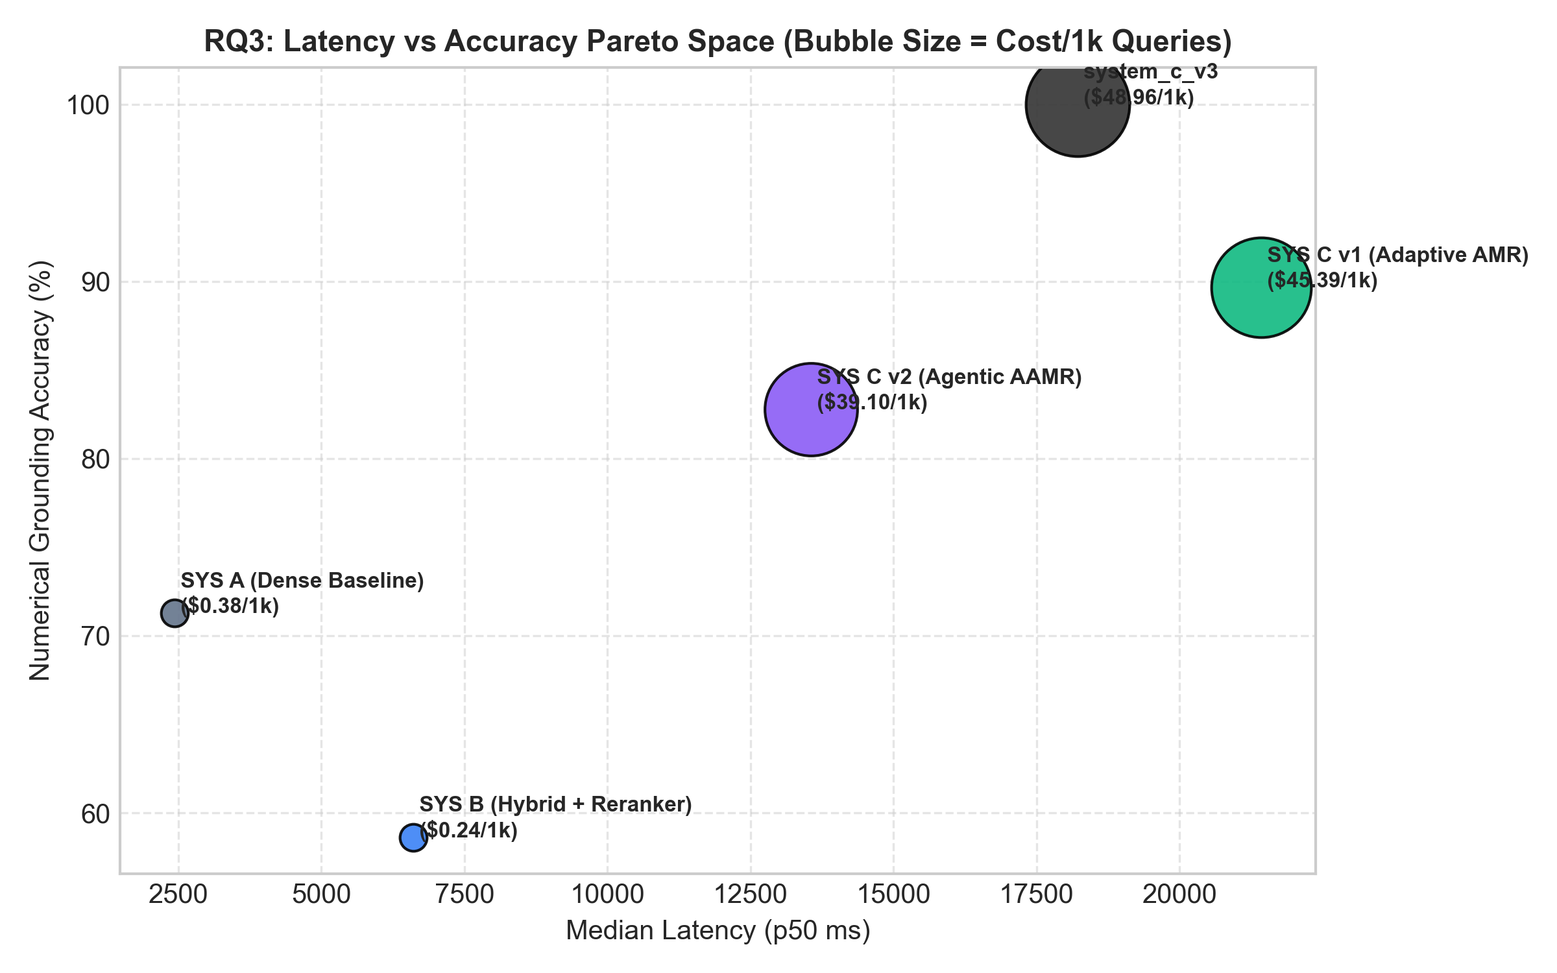
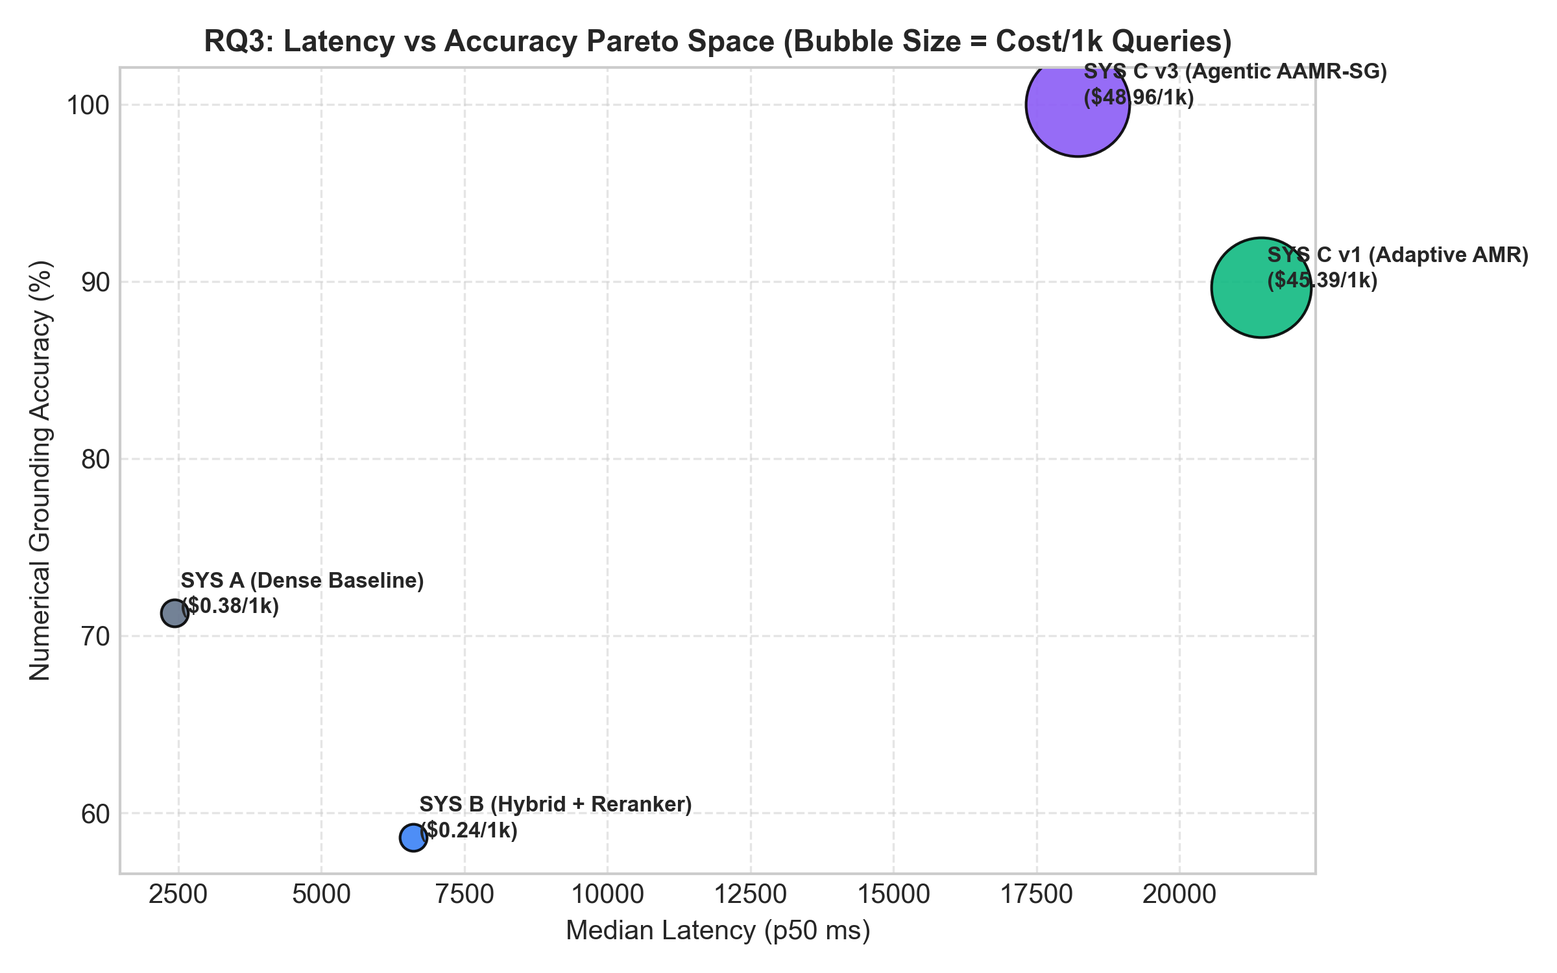
docs: streamline 4 evaluated systems to A, B, C_v1, and C_v3 across README, docs, and benchmarks

Changed region(s): [[0.6562, 0.0613, 0.9062, 0.184], [0.4688, 0.368, 0.6875, 0.4907]]

diff --git a/scripts/rq3/evaluate_rq3.py b/scripts/rq3/evaluate_rq3.py
@@ -75,10 +75,10 @@ def compute_wilcoxon_tests(df: pd.DataFrame) -> Dict[str, Any]:
         return {"note": "scipy not available for Wilcoxon tests"}
 
     comparisons = [
-        ("system_c_v2", "system_c_v1", "hops", "H3c Hop Reduction (AAMR vs AMR)"),
-        ("system_c_v2", "system_c_v1", "latency_ms", "AAMR Latency vs AMR"),
+        ("system_c_v3", "system_c_v1", "hops", "H3c Hop Reduction (AAMR-SG vs AMR)"),
+        ("system_c_v3", "system_c_v1", "latency_ms", "AAMR-SG Latency vs AMR"),
         ("system_c_v1", "system_b", "numeric_correct", "H3b Accuracy vs System B Hybrid"),
-        ("system_c_v2", "system_b", "numeric_correct", "AAMR Accuracy vs System B Hybrid"),
+        ("system_c_v3", "system_b", "numeric_correct", "AAMR-SG Accuracy vs System B Hybrid"),
         ("system_b", "system_a", "latency_ms", "System B Rerank Latency vs System A"),
         ("system_b", "system_a", "numeric_correct", "System B Accuracy vs System A"),
     ]
@@ -113,7 +113,8 @@ def compute_wilcoxon_tests(df: pd.DataFrame) -> Dict[str, Any]:
 def compute_system_metrics(df: pd.DataFrame) -> Dict[str, Any]:
     """Calculate comprehensive economic, latency, and quality metrics per system."""
     summary = {}
-    systems = df["system"].unique()
+    target_order = ["system_a", "system_b", "system_c_v1", "system_c_v3", "system_c_fixed_3hop"]
+    systems = [s for s in target_order if s in df["system"].unique()]
 
     for s in systems:
         sub = df[df["system"] == s].copy()
@@ -208,12 +209,12 @@ def simulate_routing_cascade(df: pd.DataFrame) -> Dict[str, Any]:
     Simulates a production two-tier cascade:
     1. Query routed to System B (hybrid RAG).
     2. If System B produces correct numerical grounding / sufficiency, accept System B (low cost, fast).
-    3. If System B is insufficient, cascade to System C v2 (Agentic Multi-Hop AAMR).
+    3. If System B is insufficient, cascade to System C v3 (Agentic Multi-Hop AAMR-SG).
     """
     b_df = df[df["system"] == "system_b"].set_index("query_id")
-    c2_df = df[df["system"] == "system_c_v2"].set_index("query_id")
+    c3_df = df[df["system"] == "system_c_v3"].set_index("query_id")
 
-    common_ids = list(set(b_df.index).intersection(set(c2_df.index)))
+    common_ids = list(set(b_df.index).intersection(set(c3_df.index)))
     if not common_ids:
         return {"n_queries": 0, "status": "insufficient_paired_data"}
 
@@ -224,7 +225,7 @@ def simulate_routing_cascade(df: pd.DataFrame) -> Dict[str, Any]:
 
     for qid in common_ids:
         b_row = b_df.loc[qid]
-        c2_row = c2_df.loc[qid]
+        c3_row = c3_df.loc[qid]
 
         b_correct = bool(b_row.get("numeric_correct", False))
 
@@ -236,9 +237,9 @@ def simulate_routing_cascade(df: pd.DataFrame) -> Dict[str, Any]:
         else:
             # Escalated to tier 2
             escalated_count += 1
-            total_cost += float(b_row.get("estimated_cost_usd", 0.0)) + float(c2_row.get("estimated_cost_usd", 0.0))
-            total_latency += float(b_row.get("latency_ms", 0.0)) + float(c2_row.get("latency_ms", 0.0))
-            if bool(c2_row.get("numeric_correct", False)):
+            total_cost += float(b_row.get("estimated_cost_usd", 0.0)) + float(c3_row.get("estimated_cost_usd", 0.0))
+            total_latency += float(b_row.get("latency_ms", 0.0)) + float(c3_row.get("latency_ms", 0.0))
+            if bool(c3_row.get("numeric_correct", False)):
                 correct_count += 1
 
     n = len(common_ids)
@@ -274,13 +275,13 @@ def plot_pareto_and_figures(summary: Dict[str, Any], df: pd.DataFrame, out_dir: 
         "system_a": "#64748b",
         "system_b": "#3b82f6",
         "system_c_v1": "#10b981",
-        "system_c_v2": "#8b5cf6",
+        "system_c_v3": "#8b5cf6",
     }
     labels = {
         "system_a": "SYS A (Dense Baseline)",
         "system_b": "SYS B (Hybrid + Reranker)",
         "system_c_v1": "SYS C v1 (Adaptive AMR)",
-        "system_c_v2": "SYS C v2 (Agentic AAMR)",
+        "system_c_v3": "SYS C v3 (Agentic AAMR-SG)",
     }
 
     xs, ys, names = [], [], []
@@ -304,7 +305,7 @@ def plot_pareto_and_figures(summary: Dict[str, Any], df: pd.DataFrame, out_dir: 
 
     # 2. Fig 2: Stage Latency Breakdown
     fig, ax = plt.subplots(figsize=(9, 4.5), dpi=300)
-    sys_order = [s for s in ["system_a", "system_b", "system_c_v1", "system_c_v2", "system_c_fixed_3hop"] if s in summary]
+    sys_order = [s for s in ["system_a", "system_b", "system_c_v1", "system_c_v3", "system_c_fixed_3hop"] if s in summary]
     ret_vals = [summary[s]["latency"]["stages_mean_ms"]["retrieval"] for s in sys_order]
     rer_vals = [summary[s]["latency"]["stages_mean_ms"]["rerank"] for s in sys_order]
     cri_vals = [summary[s]["latency"]["stages_mean_ms"]["agent_critic"] for s in sys_order]

diff --git a/scripts/demo_milestone1_system_c.py b/scripts/demo_milestone1_system_c.py
@@ -82,14 +82,14 @@ DEMO_QUERIES = [
         "description": "Baseline multi-hop RAG relying solely on unstructured text and table chunks.",
     },
     {
-        "id": "Q3_v2",
-        "name": "Quantitative Financial Comparison (v2_aamr - Agentic XBRL Tabular Tool)",
+        "id": "Q3_v3",
+        "name": "Quantitative Financial Comparison (v3_aamr_sg - Agentic XBRL Tabular Tool)",
         "query": "Compare NVIDIA's total revenue, operating income, and net income between FY2025 and FY2026, and calculate the year-over-year revenue growth rate.",
         "ticker": "NVDA",
         "years": [2025, 2026],
-        "mode": "v2_aamr",
+        "mode": "v3_aamr_sg",
         "max_hops": 3,
-        "description": "Agentic System C v2: routes to tabular_tool (financials.csv) for deterministic XBRL grounding [F-NVDA-2026].",
+        "description": "Agentic System C v3: routes to tabular_tool (financials.csv) for deterministic XBRL grounding [F-NVDA-2026].",
     },
 ]
 
@@ -97,7 +97,7 @@ DEMO_QUERIES = [
 def print_banner(provider: str, model: str) -> None:
     print(f"\n{BOLD}{CYAN}╔══════════════════════════════════════════════════════════════════════════════════════════════╗{RESET}")
     print(f"{BOLD}{CYAN}║    CS614 MILESTONE 1 DEMO: SYSTEM C (ADAPTIVE MULTI-HOP RAG FOR SEC 10-K DISCLOSURES)         ║{RESET}")
-    print(f"{BOLD}{CYAN}║    Architectural Showcase: AMR v1 (State Graph) & AAMR v2 (Agentic Tabular Tool)             ║{RESET}")
+    print(f"{BOLD}{CYAN}║    Architectural Showcase: AMR v1 (State Graph) & AAMR-SG v3 (Agentic Tabular Tool)           ║{RESET}")
     print(f"{BOLD}{CYAN}╚══════════════════════════════════════════════════════════════════════════════════════════════╝{RESET}")
     print(f"  {BOLD}LLM Provider:{RESET} {GREEN}{provider.upper()}{RESET}  |  {BOLD}Model:{RESET} {GREEN}{model}{RESET}  |  {BOLD}Date:{RESET} 24-25 Oct 2026\n")
 
@@ -119,9 +119,9 @@ def print_query_trace(idx: int, item: Dict[str, Any], state: AdaptiveRAGState) -
     print(f"     • Needs Tabular Tool:  {state.get('needs_tabular_tool')}")
     print(f"     • Planned Sub-Queries: {state.get('sub_queries')}")
 
-    # Step 2: Tabular tool (if v2)
+    # Step 2: Tabular tool (if v3)
     if state.get("tabular_evidence"):
-        print(f"\n  {BOLD}{GREEN}2. Autonomous Tabular Tool Execution (v2_aamr):{RESET}")
+        print(f"\n  {BOLD}{GREEN}2. Autonomous Tabular Tool Execution (v3_aamr_sg):{RESET}")
         for tab_block in state.get("tabular_evidence", []):
             first_line = tab_block.split("\n")[0]
             print(f"     • Injected XBRL Block: {CYAN}{first_line}{RESET}")

diff --git a/tests/rq2/test_rq2_score_report.py b/tests/rq2/test_rq2_score_report.py
@@ -276,10 +276,10 @@ def test_usage_written_to_score_rows(tmp_path):
 
 def test_report_aggregates_per_category_with_ci_and_generation_failures(tmp_path):
     records = [_record("Q1"), _record("Q2"), _record("Q3", category="single_hop_factual"),
-               _record("Q1", system="system_c_v2")]
+               _record("Q1", system="system_c_v3")]
     _write_records(tmp_path, records)
-    append_jsonl(tmp_path / GEN_ERRORS_FILE, {"system": "system_c_v2", "question_id": "Q2", "error": "boom"})
-    append_jsonl(tmp_path / GEN_ERRORS_FILE, {"system": "system_c_v2", "question_id": "Q1", "error": "later ok"})
+    append_jsonl(tmp_path / GEN_ERRORS_FILE, {"system": "system_c_v3", "question_id": "Q2", "error": "boom"})
+    append_jsonl(tmp_path / GEN_ERRORS_FILE, {"system": "system_c_v3", "question_id": "Q1", "error": "later ok"})
     values = {"Q1": 0.2, "Q2": 0.4, "Q3": 0.9}
     for r in records:
         append_jsonl(tmp_path / SCORES_FILE, {
@@ -296,9 +296,9 @@ def test_report_aggregates_per_category_with_ci_and_generation_failures(tmp_path
     assert agg[("system_c_v1", "single_hop_factual", "faithfulness")]["n"] == 1
 
     assert R.generation_failures(read_jsonl(tmp_path / RECORDS_FILE), read_jsonl(tmp_path / GEN_ERRORS_FILE)) == {
-        "system_c_v1": 0, "system_c_v2": 1}
+        "system_c_v1": 0, "system_c_v3": 1}
     text = R.build_report(tmp_path)
-    assert "| system_c_v2 | 1 | 1 |" in text
+    assert "| system_c_v3 | 1 | 1 |" in text
     assert "Context Precision is order-sensitive" in text
     assert "(n=3)" in text
     assert (tmp_path / "aggregate.csv").exists()

diff --git a/scripts/run_rq3_ablation.py b/scripts/run_rq3_ablation.py
@@ -6,7 +6,7 @@ Ablation Conditions Benchmarked:
 1. `fixed_1hop`: Fixed 1-Hop Baseline (max_hops=1, single-pass retrieval)
 2. `fixed_3hop`: Fixed 3-Hop Exhaustive (max_hops=3, force_max_hops=True, no early-stopping)
 3. `adaptive_v1`: Adaptive Multi-Hop AMR (max_hops=3, dynamic reflection & early-stopping)
-4. `agentic_v2`:  Agentic Adaptive AMR AAMR (max_hops=3, tabular_tool + dynamic reflection)
+4. `agentic_v3`:  Agentic Adaptive AMR-SG (max_hops=3, schema-aware tabular tool + dynamic reflection)
 
 Metrics Computed:
 - Latency (ms): Mean, Std, Min, Max, p50, p90, p99
@@ -173,12 +173,12 @@ ABLATION_CONDITIONS = [
         "description": "System C v1 with Evidence Sufficiency Critic dynamic early-stopping.",
     },
     {
-        "key": "agentic_v2",
-        "label": "Agentic Adaptive (AAMR v2)",
-        "mode": "v2_aamr",
+        "key": "agentic_v3",
+        "label": "Agentic Adaptive (AAMR-SG v3)",
+        "mode": "v3_aamr_sg",
         "max_hops": 3,
         "force_max_hops": False,
-        "description": "System C v2 with autonomous tabular XBRL tool + dynamic early-stopping.",
+        "description": "System C v3 with autonomous tabular XBRL tool, schema-aware sufficiency & table continuity.",
     },
 ]
 

diff --git a/scripts/rq3/run_rq3_experiment.py b/scripts/rq3/run_rq3_experiment.py
@@ -6,7 +6,7 @@ Evaluates 5 systems head-to-head on the standardized benchmark pool:
 1. `system_a`: Vanilla Dense Baseline (rag5 contextual headers, 1 LLM call)
 2. `system_b`: Advanced Single-Pass Hybrid RAG (Okapi BM25 + dense + cross-encoder rerank, 1 LLM call)
 3. `system_c_v1`: Adaptive Multi-Hop RAG (AMR: dynamic 1-3 hops + Sufficiency Critic + Guardrail)
-4. `system_c_v2`: Agentic Adaptive Multi-Hop RAG (AAMR: XBRL tabular tool + dynamic 1-3 hops + Guardrail)
+4. `system_c_v3`: Agentic Adaptive Multi-Hop RAG (AAMR-SG: schema-aware sufficiency + dynamic 1-3 hops + Guardrail)
 5. `system_c_fixed_3hop`: Unconditioned 3-Hop Ablation Control (force_max_hops=True)
 
 Hardened Experimental Protocol:
@@ -38,7 +38,7 @@ DEFAULT_BENCHMARK_2015 = REPO_ROOT / "data" / "benchmark_qa_pool_2015.json"
 DEFAULT_RECORDS_FILE = REPO_ROOT / "reports" / "rq3" / "records.jsonl"
 DEFAULT_ERRORS_FILE = REPO_ROOT / "reports" / "rq3" / "errors.jsonl"
 
-ALL_SYSTEMS = ["system_a", "system_b", "system_c_v1", "system_c_v2"]
+ALL_SYSTEMS = ["system_a", "system_b", "system_c_v1", "system_c_v3"]
 
 
 def load_benchmark_records(path: Path, min_year: int = 2015) -> List[Dict[str, Any]]:

diff --git a/scripts/rq2/generate.py b/scripts/rq2/generate.py
@@ -5,7 +5,7 @@ Runs in the main `cs614` env and never imports ragas. Resumable: (system, questi
 `records.jsonl` are skipped; failures go to `gen_errors.jsonl` and are retried on the next run.
 
 Usage:
-    python scripts/rq2/generate.py --systems system_c_v1,system_c_v2 --run-id smoke --limit 3
+    python scripts/rq2/generate.py --systems system_c_v1,system_c_v3 --run-id smoke --limit 3
 """
 
 import argparse
@@ -115,7 +115,7 @@ def select_questions(questions: List[Dict[str, Any]], ids: Optional[List[str]], 
 
 def main() -> None:
     p = argparse.ArgumentParser(description="RQ2 Stage 1: generate answers per system and question.")
-    p.add_argument("--systems", default="system_a,system_b,system_c_v1,system_c_v2")
+    p.add_argument("--systems", default="system_a,system_b,system_c_v1,system_c_v3")
     p.add_argument("--run-id", required=True)
     p.add_argument("--eval-set", default=str(GOLDEN_PATH))
     p.add_argument("--ids", default=None, help="Comma-separated question ids.")

diff --git a/scripts/rq1/evaluate_rq1.py b/scripts/rq1/evaluate_rq1.py
@@ -2,7 +2,7 @@
 """
 Research Question 1 (RQ1) Evaluation Harness: Retrieval Completeness across Non-Adjacent Sections.
 
-Evaluates all 4 RAG architectures (system_a, system_b, system_c_v1, system_c_v2) on:
+Evaluates all 4 RAG architectures (system_a, system_b, system_c_v1, system_c_v3) on:
 1. Evidence Recall@k: Proportion of gold evidence facts retrieved in the candidate context.
 2. Multi-Hop Evidence Completeness: % of multi-hop queries where ALL gold evidence items were found.
 3. Cross-Section Discovery Rate: % of questions with disparate 10-K sections (e.g. Item 7 + Item 8)
@@ -34,7 +34,7 @@ DEFAULT_RECORDS = REPO_ROOT / "reports" / "rq3" / "records.jsonl"
 DEFAULT_OUT_CSV = REPO_ROOT / "reports" / "rq1" / "summary_metrics.csv"
 DEFAULT_OUT_JSON = REPO_ROOT / "reports" / "rq1" / "summary_metrics.json"
 
-SYSTEMS = ["system_a", "system_b", "system_c_v1", "system_c_v2"]
+SYSTEMS = ["system_a", "system_b", "system_c_v1", "system_c_v3"]
 
 
 def normalize_text(text: str) -> str:

diff --git a/tests/test_architecture_contracts.py b/tests/test_architecture_contracts.py
@@ -85,7 +85,7 @@ def test_anti_leakage_firewall_all_systems():
         "CANARY_SECRET_HEADING_999",
     ]
 
-    adapters = get_adapters(["system_a", "system_b", "system_c_v1", "system_c_v2"])
+    adapters = get_adapters(["system_a", "system_b", "system_c_v1", "system_c_v3"])
     for name, adapter in adapters.items():
         out = adapter.answer(canary_qa)
         # Inspect all retrieved contexts
@@ -115,7 +115,7 @@ def test_plug_and_play_adapter_schema_all_systems():
     records = json.loads(BENCHMARK_2015_PATH.read_text(encoding="utf-8"))
     sample_q = records[0]  # amanda-001 or amanda-002
 
-    systems = ["system_a", "system_b", "system_c_v1", "system_c_v2", "system_c_fixed_3hop"]
+    systems = ["system_a", "system_b", "system_c_v1", "system_c_v3", "system_c_fixed_3hop"]
     adapters = get_adapters(systems)
 
     for sys_name, adapter in adapters.items():

diff --git a/scripts/plot_rq3_pareto.py b/scripts/plot_rq3_pareto.py
@@ -38,13 +38,15 @@ COLORS = {
     "fixed_1hop": "#64748b",   # Slate Grey
     "fixed_3hop": "#ef4444",   # Coral Red
     "adaptive_v1": "#3b82f6",  # Royal Blue
-    "agentic_v2": "#10b981",   # Emerald Green
+    "agentic_v3": "#10b981",   # Emerald Green
+    "agentic_v2": "#10b981",   # Backwards compatibility
 }
 
 MARKERS = {
     "fixed_1hop": "o",
     "fixed_3hop": "s",
     "adaptive_v1": "^",
+    "agentic_v3": "*",
     "agentic_v2": "*",
 }
 

diff --git a/README.md b/README.md
@@ -1,7 +1,7 @@
 # CS614 GenAI Project: Adaptive Multi-Hop RAG for SEC 10-K Financial Disclosures
 
 **Course:** CS614 Generative AI with LLMs (SMU)  
-**System Comparison:** System A (Vanilla Dense) vs. System B (Hybrid Rerank) vs. System C v1 (Adaptive Multi-Hop) vs. System C v2 (Agentic Multi-Hop)  
+**System Comparison:** System A (Vanilla Dense) vs. System B (Hybrid Rerank) vs. System C v1 (Adaptive Multi-Hop) vs. System C v3 (Adaptive Agentic Multi-Hop with Schema-Aware Sufficiency & Guardrails)  
 
 ---
 
@@ -9,7 +9,7 @@
 
 * 📖 **[Team Engineering & Evaluation Guide](docs/guides/TEAM_RAG_EVALUATION_GUIDE.md)** — Step-by-step instructions for running RQ1, RQ2, and RQ3 evaluations across all 4 systems.
 * 🐳 **[Docker Quickstart Guide](DOCKER_QUICKSTART.md)** — One-line commands to run tests, demos, benchmarks, and Jupyter inside Docker.
-* 🏛 **[System C Architecture & Mermaid State Graph](ARCHITECTURE.md)** — Complete LangGraph specification (AMR v1 & AAMR v2).
+* 🏛 **[System C Architecture & Mermaid State Graph](ARCHITECTURE.md)** — Complete LangGraph specification (AMR v1 & AAMR-SG v3).
 * 🔎 **[System B Architecture & Setup Guide](docs/SYSTEM_B.md)** — BM25 + dense retrieval + weighted hybrid fusion + cross-encoder reranking.
 * 📈 **[System B Evaluation Report](reports/system_b/EVALUATION_REPORT.md)** — Benchmark summary and per-query results.
 * 🎤 **[Milestone 1 Demo Guide](reports/MILESTONE1_DEMO_SCRIPT.md)** — Presentation walkthrough and query execution traces.
@@ -67,7 +67,7 @@ Our research evaluates four distinct RAG architectures on complex SEC Form 10-K 
 | **`system_a`** (Vanilla Dense Baseline) | Top-10 Dense Vector Search | Structure-Preserving + Filing Headers (`rag5`) | 1-Hop | Single-pass generation; direct citation tags |
 | **`system_b`** (Advanced Hybrid Single-Pass) | Okapi BM25 + BGE-Small Dense + Cross-Encoder Reranker | Structure-Preserving (`rag3`) | 1-Hop | Min-Max weighted score fusion ($\alpha=0.50$) |
 | **`system_c_v1`** (Adaptive Multi-Hop AMR) | Iterative Multi-Hop Hybrid Retrieval | Structure-Preserving + Deduplication | Dynamic (1 to 3 hops) | Evidence Sufficiency Critic reflection loop + Numerical Guardrail |
-| **`system_c_v2`** (Agentic Multi-Hop AAMR) | Autonomous Tool Routing + Multi-Hop Hybrid | Structure-Preserving + Deduplication | Dynamic (1 to 3 hops) | Pre-routes to SEC XBRL financial statements (`financials.csv`) + Numerical Guardrail |
+| **`system_c_v3`** (Agentic Multi-Hop AAMR-SG) | Autonomous Schema-Aware Sufficiency + Multi-Hop Hybrid | Structure-Preserving + Table Stitching + Deduplication | Dynamic (1 to 3 hops) | Pre-routes to SEC XBRL financial statements (`financials.csv`) + Structural table continuity detector + Time-series consistency + Numerical Guardrail |
 
 <details>
 <summary><b>Note on Baseline Development Variants (RAG 1 to RAG 6)</b></summary>
@@ -100,8 +100,8 @@ python -m src.system_b --query "What was NVIDIA's total revenue?" --tickers NVDA
 # AMR (v1: Adaptive Multi-Hop)
 python -m src.system_c.graph --mode v1_amr --query "What was NVIDIA's revenue and gross margin in FY2026?"
 
-# AAMR (v2: Agentic Multi-Hop with XBRL Tabular Tool)
-python -m src.system_c.graph --mode v2_aamr --query "Compare NVIDIA and Apple total revenue in 2024."
+# AAMR-SG (v3: Agentic Multi-Hop with Schema-Aware Sufficiency & Table Continuity)
+python -m src.system_c.graph --mode v3_aamr_sg --query "Compare NVIDIA and Apple total revenue in 2024."
 ```
 
 ---

diff --git a/docs/guides/TEAM_RAG_EVALUATION_GUIDE.md b/docs/guides/TEAM_RAG_EVALUATION_GUIDE.md
@@ -1,6 +1,6 @@
 # Comparative Engineering & Evaluation Guide: 4 Financial RAG Systems
 
-**Scope:** Standardized evaluation protocol across System A, System B, System C v1, and System C v2.  
+**Scope:** Standardized evaluation protocol across System A, System B, System C v1, and System C v3.  
 **Branch:** `dev`  
 **Purpose:** Instructions for connecting to the 4 RAG systems and executing standardized evaluations for **RQ1 (Retrieval Completeness)**, **RQ2 (Grounding & Citations)**, and **RQ3 (Inference Economics)**.
 
@@ -13,7 +13,7 @@ Every research question in our paper evaluates the exact same **4 RAG systems**:
 1. **`system_a` (Vanilla Dense Baseline):** Standard vector search (top-10 chunks from Supabase) $\rightarrow$ 1 LLM answer.
 2. **`system_b` (Advanced Hybrid Single-Pass):** Vector search + BM25 keyword search + cross-encoder reranking $\rightarrow$ 1 LLM answer. Does **not** hop.
 3. **`system_c_v1` (Adaptive Multi-Hop):** Breaks question into sub-queries, loops through 1 to 3 retrieval hops, checks evidence with a Critic, and verifies numbers with a Guardrail.
-4. **`system_c_v2` (Agentic Multi-Hop with Financial Tools):** Pulls structured financial data from an SEC XBRL tool first, then loops through 1 to 3 hops with Critic and Guardrail.
+4. **`system_c_v3` (Agentic Multi-Hop with Schema-Aware Sufficiency & Financial Tools):** Pulls structured financial data from an SEC XBRL tool first, then loops through 1 to 3 hops with Critic, structural table continuity stitching, and Guardrail.
 
 ---
 
@@ -63,7 +63,7 @@ load_dotenv(override=True)
 from scripts.rq2.adapters import get_adapters
 
 # Load the 4 systems
-adapters = get_adapters(["system_a", "system_b", "system_c_v1", "system_c_v2"])
+adapters = get_adapters(["system_a", "system_b", "system_c_v1", "system_c_v3"])
 
 # Example question
 question = {
@@ -76,7 +76,7 @@ question = {
 }
 
 # Run any system
-output = adapters["system_c_v2"].answer(question)
+output = adapters["system_c_v3"].answer(question)
 
 print("Answer:", output["answer"])
 print("Retrieved Chunks:", len(output["retrieved_contexts"]))
@@ -123,7 +123,7 @@ This file contains 388 completed results with full answers, all retrieved chunks
 All execution commands use Docker, mounting your local workspace so all outputs (`reports/`) persist directly to your machine.
 
 > [!NOTE]
-> `runner` (or `system-c`) in the Docker command is simply the name of the Docker execution container. Running `scripts/rq1/evaluate_rq1.py` evaluates **all 4 systems** (`system_a`, `system_b`, `system_c_v1`, `system_c_v2`) side-by-side, not just System C!
+> `runner` (or `system-c`) in the Docker command is simply the name of the Docker execution container. Running `scripts/rq1/evaluate_rq1.py` evaluates **all 4 systems** (`system_a`, `system_b`, `system_c_v1`, `system_c_v3`) side-by-side, not just System C!
 
 ### Research Question 1 (RQ1): Retrieval Completeness & Cross-Section Discovery
 * **Objective:** Determine whether adaptive multi-hop retrieval uncovers scattered evidence across non-adjacent 10-K sections (e.g., Item 7 MD&A and Item 8 Footnotes) that single-pass architectures omit.

diff --git a/DOCKER_QUICKSTART.md b/DOCKER_QUICKSTART.md
@@ -55,7 +55,7 @@ docker compose run --rm runner pytest tests/ -v
 ```
 
 ### B. Run the Milestone 1 Demo Showcase
-Runs the 3 curated SEC 10-K benchmark queries (Single-Hop early stopping, MD&A + Footnotes multi-hop, and Quantitative Tabular `v1_amr` vs `v2_aamr`) and prints the formatted comparison table:
+Runs the 3 curated SEC 10-K benchmark queries (Single-Hop early stopping, MD&A + Footnotes multi-hop, and Quantitative Tabular `v1_amr` vs `v3_aamr_sg`) and prints the formatted comparison table:
 ```bash
 # Rapid mock mode:
 docker compose run --rm runner python scripts/demo_milestone1_system_c.py --mock
@@ -65,7 +65,7 @@ docker compose run --rm -e LLM_PROVIDER=ollama runner python scripts/demo_milest
 ```
 
 ### C. Run the RQ3 Inference Economics Ablation Benchmark
-Benchmarks Fixed 1-Hop vs. Fixed 3-Hop vs. Adaptive AMR (v1) vs. Agentic AAMR (v2) and exports CSV/JSON summaries:
+Benchmarks Fixed 1-Hop vs. Fixed 3-Hop vs. Adaptive AMR (v1) vs. Adaptive Agentic AAMR-SG (v3) and exports CSV/JSON summaries:
 ```bash
 docker compose run --rm runner python scripts/run_rq3_ablation.py --mock
 ```
@@ -79,7 +79,7 @@ docker compose run --rm runner python scripts/plot_rq3_pareto.py
 ### E. Run an Interactive Ad-Hoc Financial Query
 ```bash
 docker compose run --rm runner python -m src.system_c.graph \
-  --mode v2_aamr \
+  --mode v3_aamr_sg \
   --max-hops 3 \
   --query "Compare NVIDIA total revenue and net income between FY2025 and FY2026, and calculate the operating margin."
 ```
@@ -111,7 +111,7 @@ Then open your browser to: **`http://localhost:8888`**
 The stages only talk through the files in `reports/rq2/<run_id>/` (the project folder is mounted).
 ```bash
 # Stage 1 (live, needs OPENAI_API_KEY in .env):
-docker compose run --rm -e LLM_PROVIDER=openai system-c python scripts/rq2/generate.py --systems system_c_v1,system_c_v2 --run-id smoke --ids GOLD-01,GOLD-21,GOLD-56
+docker compose run --rm -e LLM_PROVIDER=openai system-c python scripts/rq2/generate.py --systems system_c_v1,system_c_v3 --run-id smoke --ids GOLD-01,GOLD-21,GOLD-56
 
 # Stage 2 (runs score.py then report.py; judge defaults to OpenAI gpt-4o-mini):
 docker compose run --rm rq2-eval
